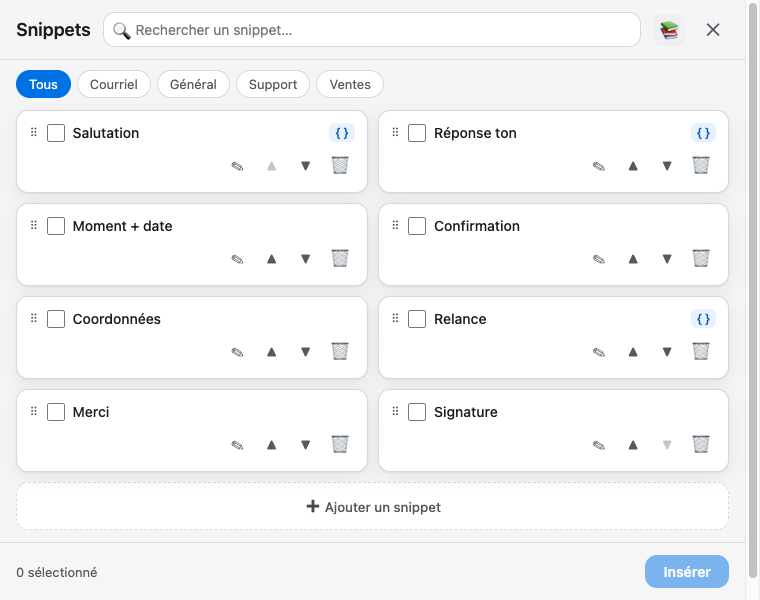
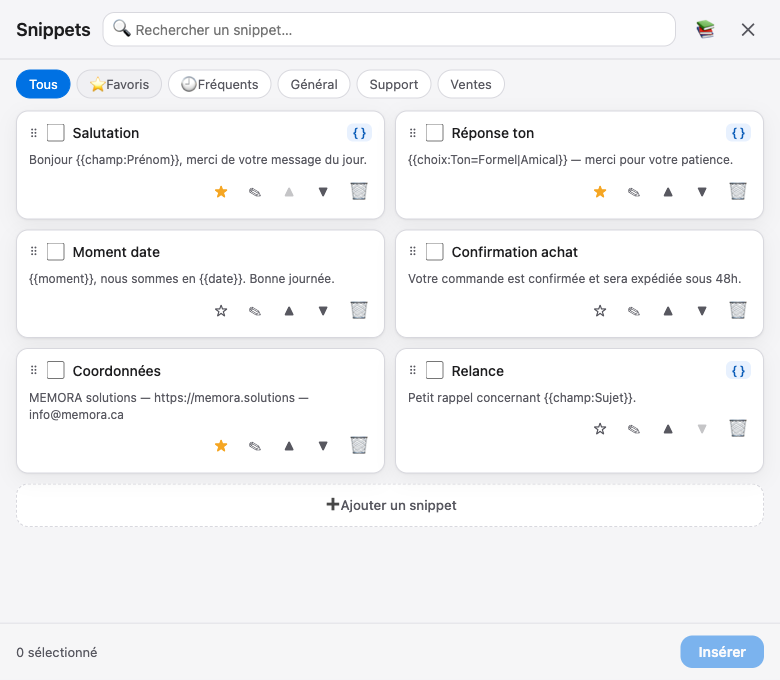
feat(v6): aperçu cartes + favoris/fréquents + DnD cross-dossier + recherche floue + undo suppression
- Aperçu 2 lignes du contenu sur chaque carte (reconnaître sans ouvrir)
- Favoris ⭐ + filtres « Favoris » / « Fréquents » (sans déstabiliser l'ordre manuel)
- Glisser une carte sur un dossier pour la reclasser (DnD cross-dossier)
- Recherche floue (sous-séquence tolérante)
- Annulation de suppression (barre Annuler non bloquante)
- Aperçu README mis à jour (v6)

diff --git a/templates/memora-snippets.template.html b/templates/memora-snippets.template.html
@@ -71,6 +71,13 @@
     .btns{display:flex;gap:10px;margin-top:4px;}
     .btns .btn{flex:1;}
     :focus-visible{outline:2px solid var(--accent);outline-offset:2px;}
+    .card-preview{color:var(--text2);font-size:12px;line-height:1.4;display:-webkit-box;-webkit-line-clamp:2;-webkit-box-orient:vertical;overflow:hidden;word-break:break-word;margin-top:2px;}
+    .fav-btn{color:var(--text2);}
+    .card-actions .fav-btn.on,.fav-btn[aria-pressed='true']{color:#f5a623;}
+    .chip.drop-target{background:var(--accent);color:#fff;border-color:var(--accent);}
+    #undo-bar{position:fixed;bottom:70px;left:50%;transform:translateX(-50%);background:var(--surface);border:1px solid var(--border);border-radius:var(--radius);box-shadow:var(--shadow);padding:10px 16px;display:flex;align-items:center;gap:12px;font-size:13px;color:var(--text);z-index:15;opacity:0;pointer-events:none;transition:opacity .2s;}
+    #undo-bar.visible{opacity:1;pointer-events:auto;}
+    #undo-bar #undo-btn{background:none;border:none;color:var(--accent);font-weight:600;cursor:pointer;font-size:13px;padding:0;}
   </style>
 </head>
 <body data-kmwindow='720,640'>
@@ -95,6 +102,7 @@
     let loadError = false;
     let editingIndex = -1;
     let activeFolder = '';
+    let undoTimer = null;
 
     const normalize = (s) => String(s).normalize('NFD').replace(/[̀-ͯ]/g, '').toLowerCase();
     const formatDate = () => new Intl.DateTimeFormat('fr-CA', { month: 'long', year: 'numeric' }).format(new Date());
@@ -104,6 +112,7 @@
     const rnd = (arr) => arr[Math.floor(Math.random() * arr.length)];
     const memora_debounce = (fn, d) => { let t; return (...a) => { clearTimeout(t); t = setTimeout(() => fn(...a), d); }; };
 
+    function fuzzy(q, text) { q = normalize(q); text = normalize(text); let i = 0; for (const c of text) { if (c === q[i]) i++; if (i >= q.length) return true; } return q.length === 0; }
     function hasVars(t) { return /{{(champ|choix):[^}]+}}/.test(t); }
     function extractVars(t) {
       const vars = []; const re = /{{(champ|choix):([^}=]+)(?:=([^}]+))?}}/g; let m;
@@ -127,11 +136,11 @@
 
     // Exemples au tout premier lancement (variable jamais définie) — montrent les 4 types de variables
     const DEFAULTS = [
-      { terme: 'Salutation', texte: 'Bonjour {{champ:Prénom}},', coché: false, dossier: 'Courriel' },
-      { terme: 'Réponse (ton)', texte: '{{choix:Ton=Formel|Amical}} — merci pour votre message.', coché: false, dossier: 'Courriel' },
-      { terme: 'Mois courant', texte: 'Nous sommes en {{date}}.', coché: false, dossier: 'Général' },
-      { terme: 'Intro variée', texte: '{{alea:Bonjour|Salut|Allô}} !', coché: false, dossier: 'Courriel' },
-      { terme: 'Coordonnées MEMORA', texte: 'MEMORA solutions — https://memora.solutions — [email redacted]', coché: false, dossier: 'Général' }
+      { terme: 'Salutation', texte: 'Bonjour {{champ:Prénom}},', coché: false, dossier: 'Courriel', favori: false, usage: 0 },
+      { terme: 'Réponse (ton)', texte: '{{choix:Ton=Formel|Amical}} — merci pour votre message.', coché: false, dossier: 'Courriel', favori: false, usage: 0 },
+      { terme: 'Mois courant', texte: 'Nous sommes en {{date}}.', coché: false, dossier: 'Général', favori: false, usage: 0 },
+      { terme: 'Intro variée', texte: '{{alea:Bonjour|Salut|Allô}} !', coché: false, dossier: 'Courriel', favori: false, usage: 0 },
+      { terme: 'Coordonnées MEMORA', texte: 'MEMORA solutions — https://memora.solutions — [email redacted]', coché: false, dossier: 'Général', favori: true, usage: 0 }
     ];
     function loadState() {
       if (!window.KeyboardMaestro) return;
@@ -140,7 +149,7 @@
       try {
         snippets = JSON.parse(raw) || [];
         if (!Array.isArray(snippets)) snippets = [];
-        snippets = snippets.map(s => ({ terme: typeof s.terme === 'string' ? s.terme : '', texte: typeof s.texte === 'string' ? s.texte : '', coché: !!s.coché, dossier: typeof s.dossier === 'string' ? s.dossier : '' }));
+        snippets = snippets.map(s => ({ terme: typeof s.terme === 'string' ? s.terme : '', texte: typeof s.texte === 'string' ? s.texte : '', coché: !!s.coché, dossier: typeof s.dossier === 'string' ? s.dossier : '', favori: !!s.favori, usage: typeof s.usage === 'number' ? s.usage : 0 }));
       } catch (e) { snippets = []; console.error('memora_snippets illisible', e); loadError = true; }
     }
     function persist() { if (!window.KeyboardMaestro) return; try { window.KeyboardMaestro.SetVariable('memora_snippets', JSON.stringify(snippets)); } catch (e) { console.error('persist échec', e); } }
@@ -149,26 +158,41 @@
     function renderFolders() {
       const bar = document.getElementById('folders');
       const fs = getFolders();
-      if (activeFolder && !fs.includes(activeFolder)) activeFolder = '';
+      if (activeFolder && activeFolder !== '__fav__' && activeFolder !== '__freq__' && !fs.includes(activeFolder)) activeFolder = '';
       bar.innerHTML = '';
-      if (fs.length === 0) { bar.style.display = 'none'; return; }
+      if (snippets.length === 0) { bar.style.display = 'none'; return; }
       bar.style.display = 'flex';
-      const mk = (label, val) => { const b = document.createElement('button'); b.type = 'button'; b.className = 'chip' + (activeFolder === val ? ' active' : ''); b.textContent = label; b.onclick = () => { activeFolder = val; render(); }; return b; };
+      const mk = (label, val, folder) => {
+        const b = document.createElement('button'); b.type = 'button'; b.className = 'chip' + (activeFolder === val ? ' active' : ''); b.textContent = label; b.onclick = () => { activeFolder = val; render(); };
+        if (folder) b.dataset.folder = folder;
+        return b;
+      };
       bar.appendChild(mk('Tous', ''));
-      fs.forEach(f => bar.appendChild(mk(f, f)));
+      bar.appendChild(mk('⭐ Favoris', '__fav__'));
+      bar.appendChild(mk('🕘 Fréquents', '__freq__'));
+      fs.forEach(f => bar.appendChild(mk(f, f, f)));
     }
 
     function render() {
       const grid = document.getElementById('snippets-grid');
-      const term = normalize(document.getElementById('search-input').value);
+      const term = document.getElementById('search-input').value;
       renderFolders();
       grid.innerHTML = '';
       let shown = 0;
-      snippets.forEach((s, index) => { // index = index RÉEL dans snippets[]
-        if (activeFolder && (s.dossier || '') !== activeFolder) return;
-        if (term && !(normalize(s.terme).includes(term) || normalize(s.texte).includes(term))) return;
+      const last = snippets.length - 1;
+      // Construire la liste à afficher : [index réel, snippet]
+      let entries = snippets.map((s, i) => [i, s]);
+      if (activeFolder === '__fav__') {
+        entries = entries.filter(([, s]) => s.favori);
+      } else if (activeFolder === '__freq__') {
+        // Trie une copie par usage décroissant ; dataset.index reste l'index réel
+        entries = [...entries].sort((a, b) => (b[1].usage || 0) - (a[1].usage || 0) || a[0] - b[0]);
+      } else if (activeFolder) {
+        entries = entries.filter(([, s]) => (s.dossier || '') === activeFolder);
+      }
+      if (term) entries = entries.filter(([, s]) => fuzzy(term, s.terme) || fuzzy(term, s.texte));
+      entries.forEach(([index, s]) => {
         shown++;
-        const last = snippets.length - 1;
         const card = document.createElement('div');
         card.className = 'card'; card.draggable = false; card.dataset.index = index;
         card.innerHTML =
@@ -178,7 +202,9 @@
             "<span class='card-label' data-index='" + index + "'>" + escapeHtml(s.terme) + "</span>" +
             (hasVars(s.texte) ? "<span class='badge' title='Contient des variables'>{ }</span>" : '') +
           "</div>" +
+          "<div class='card-preview'>" + escapeHtml(s.texte) + "</div>" +
           "<div class='card-actions'>" +
+            "<button class='fav-btn" + (s.favori ? ' on' : '') + "' data-index='" + index + "' aria-label='Favori' aria-pressed='" + (s.favori ? 'true' : 'false') + "' title='Favori'>" + (s.favori ? '★' : '☆') + "</button>" +
             "<button class='edit-btn' data-index='" + index + "' aria-label='Modifier'>✎</button>" +
             "<button class='move-up' data-index='" + index + "' aria-label='Monter' " + (index === 0 ? 'disabled' : '') + ">▲</button>" +
             "<button class='move-down' data-index='" + index + "' aria-label='Descendre' " + (index === last ? 'disabled' : '') + ">▼</button>" +
@@ -235,18 +261,29 @@
       const t = document.getElementById('edit-terme');
       const terme = t.value.trim();
       if (!terme) { t.classList.add('input-error'); t.focus(); return; } // validation inline (pas d'alert natif)
-      const tile = { terme, texte: document.getElementById('edit-texte').value, coché: document.getElementById('edit-coche').checked, dossier: document.getElementById('edit-dossier').value.trim() };
+      const old = editingIndex >= 0 ? snippets[editingIndex] : null;
+      const tile = { terme, texte: document.getElementById('edit-texte').value, coché: document.getElementById('edit-coche').checked, dossier: document.getElementById('edit-dossier').value.trim(), favori: old ? !!old.favori : false, usage: old ? (typeof old.usage === 'number' ? old.usage : 0) : 0 };
       if (editingIndex === -1) snippets.push(tile); else snippets[editingIndex] = tile;
       persist(); closeEdit(); render();
     }
-    function del(i) { snippets.splice(i, 1); persist(); render(); }
+    function del(i) { const removed = snippets.splice(i, 1)[0]; persist(); render(); showUndo(removed, i); }
+    function showUndo(item, index) {
+      clearTimeout(undoTimer);
+      let bar = document.getElementById('undo-bar');
+      if (!bar) { bar = document.createElement('div'); bar.id = 'undo-bar'; document.body.appendChild(bar); }
+      bar.innerHTML = "<span>Snippet supprimé</span><button id='undo-btn' type='button'>Annuler</button>";
+      bar.classList.add('visible');
+      document.getElementById('undo-btn').addEventListener('click', () => { snippets.splice(Math.min(index, snippets.length), 0, item); persist(); render(); hideUndo(); });
+      undoTimer = setTimeout(hideUndo, 6000);
+    }
+    function hideUndo() { clearTimeout(undoTimer); const bar = document.getElementById('undo-bar'); if (bar) bar.classList.remove('visible'); }
     function move(i, d) { const j = i + d; if (j < 0 || j >= snippets.length) return; const t = snippets[i]; snippets[i] = snippets[j]; snippets[j] = t; persist(); render(); }
 
     function doInsert() {
       const checked = snippets.filter(s => s.coché);
       if (!checked.length) return;
       const vars = collectVars(checked);
-      if (!vars.length) { submitText(assemble(checked, {})); return; }
+      if (!vars.length) { checked.forEach(s => { s.usage = (s.usage || 0) + 1; }); persist(); submitText(assemble(checked, {})); return; }
       openFill(vars, checked);
     }
     function submitText(txt) {
@@ -268,7 +305,7 @@
       const upd = () => { document.getElementById('fill-preview').textContent = assemble(checked, readValues()); };
       ov.querySelectorAll('[data-label]').forEach(el => { el.addEventListener('input', upd); el.addEventListener('change', upd); });
       ov.querySelector('#fill-cancel').addEventListener('click', () => ov.remove());
-      ov.querySelector('#fill-insert').addEventListener('click', () => { submitText(assemble(checked, readValues())); ov.remove(); });
+      ov.querySelector('#fill-insert').addEventListener('click', () => { checked.forEach(s => { s.usage = (s.usage || 0) + 1; }); persist(); submitText(assemble(checked, readValues())); ov.remove(); });
       upd();
       const f = ov.querySelector('[data-label]'); if (f) f.focus();
     }
@@ -292,7 +329,7 @@
       const doImport = (replace) => {
         let arr; try { arr = JSON.parse(ov.querySelector('#lib-import').value); } catch (e) { msg('JSON invalide.', false); return; }
         if (!Array.isArray(arr)) { msg('Le JSON doit être une liste [ … ].', false); return; }
-        const clean = arr.filter(x => x && typeof x === 'object').map(x => ({ terme: String(x.terme || ''), texte: String(x.texte || ''), coché: !!x.coché, dossier: typeof x.dossier === 'string' ? x.dossier : '' })).filter(x => x.terme || x.texte);
+        const clean = arr.filter(x => x && typeof x === 'object').map(x => ({ terme: String(x.terme || ''), texte: String(x.texte || ''), coché: !!x.coché, dossier: typeof x.dossier === 'string' ? x.dossier : '', favori: !!x.favori, usage: typeof x.usage === 'number' ? x.usage : 0 })).filter(x => x.terme || x.texte);
         if (!clean.length) { msg('Aucun snippet valide trouvé.', false); return; }
         if (replace) snippets = clean;
         else { const have = new Set(snippets.map(s => s.terme)); clean.forEach(c => { if (!have.has(c.terme)) snippets.push(c); }); }
@@ -321,12 +358,15 @@
         else if (e.target.matches('.move-down')) move(i, 1);
         else if (e.target.matches("input[type='checkbox']")) { snippets[i].coché = e.target.checked; persist(); render(); }
         else if (e.target.matches('.card-label')) { snippets[i].coché = !snippets[i].coché; persist(); render(); }
+        else if (e.target.matches('.fav-btn')) { snippets[i].favori = !snippets[i].favori; persist(); render(); }
       });
 
       let dragIndex = -1;
       const clearDragOver = () => grid.querySelectorAll('.card.drag-over').forEach(c => c.classList.remove('drag-over'));
+      const foldersBar = document.getElementById('folders');
+      const clearDropTarget = () => foldersBar.querySelectorAll('.chip.drop-target').forEach(c => c.classList.remove('drop-target'));
       grid.addEventListener('dragstart', e => { const c = e.target.closest('.card'); if (c) { dragIndex = parseInt(c.dataset.index, 10); c.style.opacity = '.5'; } });
-      grid.addEventListener('dragend', e => { const c = e.target.closest('.card'); if (c) c.style.opacity = '1'; clearDragOver(); });
+      grid.addEventListener('dragend', e => { const c = e.target.closest('.card'); if (c) c.style.opacity = '1'; clearDragOver(); clearDropTarget(); dragIndex = -1; });
       grid.addEventListener('drop', e => {
         e.preventDefault(); clearDragOver(); const c = e.target.closest('.card'); if (!c || dragIndex < 0) return;
         const to = parseInt(c.dataset.index, 10);
@@ -334,6 +374,9 @@
         dragIndex = -1;
       });
       grid.addEventListener('dragover', e => { e.preventDefault(); clearDragOver(); const c = e.target.closest('.card'); if (c && parseInt(c.dataset.index, 10) !== dragIndex) c.classList.add('drag-over'); });
+      foldersBar.addEventListener('dragover', e => { if (dragIndex < 0) return; clearDropTarget(); const chip = e.target.closest('.chip[data-folder]'); if (chip) { e.preventDefault(); chip.classList.add('drop-target'); } });
+      foldersBar.addEventListener('dragleave', e => { if (!e.relatedTarget || !foldersBar.contains(e.relatedTarget)) clearDropTarget(); });
+      foldersBar.addEventListener('drop', e => { const chip = e.target.closest('.chip[data-folder]'); if (chip && dragIndex >= 0) { e.preventDefault(); clearDropTarget(); snippets[dragIndex].dossier = chip.dataset.folder; persist(); render(); dragIndex = -1; } });
 
       document.addEventListener('click', e => {
         if (e.target.id === 'edit-save') saveEdit();

diff --git a/CHANGELOG.md b/CHANGELOG.md
@@ -4,6 +4,15 @@ Auteur : MEMORA solutions — https://memora.solutions — [email redacted]
 
 Format inspiré de [Keep a Changelog](https://keepachangelog.com/fr/), versionnage [SemVer](https://semver.org/lang/fr/).
 
+## [6.0.0] - 2026-06-12
+
+### Ajouté
+- **Aperçu du contenu sur chaque carte** (2 lignes) : reconnaître un snippet sans l'ouvrir.
+- **Favoris ⭐** + filtres **« ⭐ Favoris »** et **« 🕘 Fréquents »** (les plus utilisés) — sans déstabiliser l'ordre manuel de la liste.
+- **Glisser-déposer d'une carte sur un dossier** pour la reclasser (drag-and-drop entre dossiers).
+- **Recherche floue** (tolérante : « slt » trouve « Salutation »).
+- **Annulation de suppression** : barre **« Annuler »** non bloquante (suppression réversible, plus de perte accidentelle).
+
 ## [5.1.0] - 2026-06-11
 
 ### Ajouté